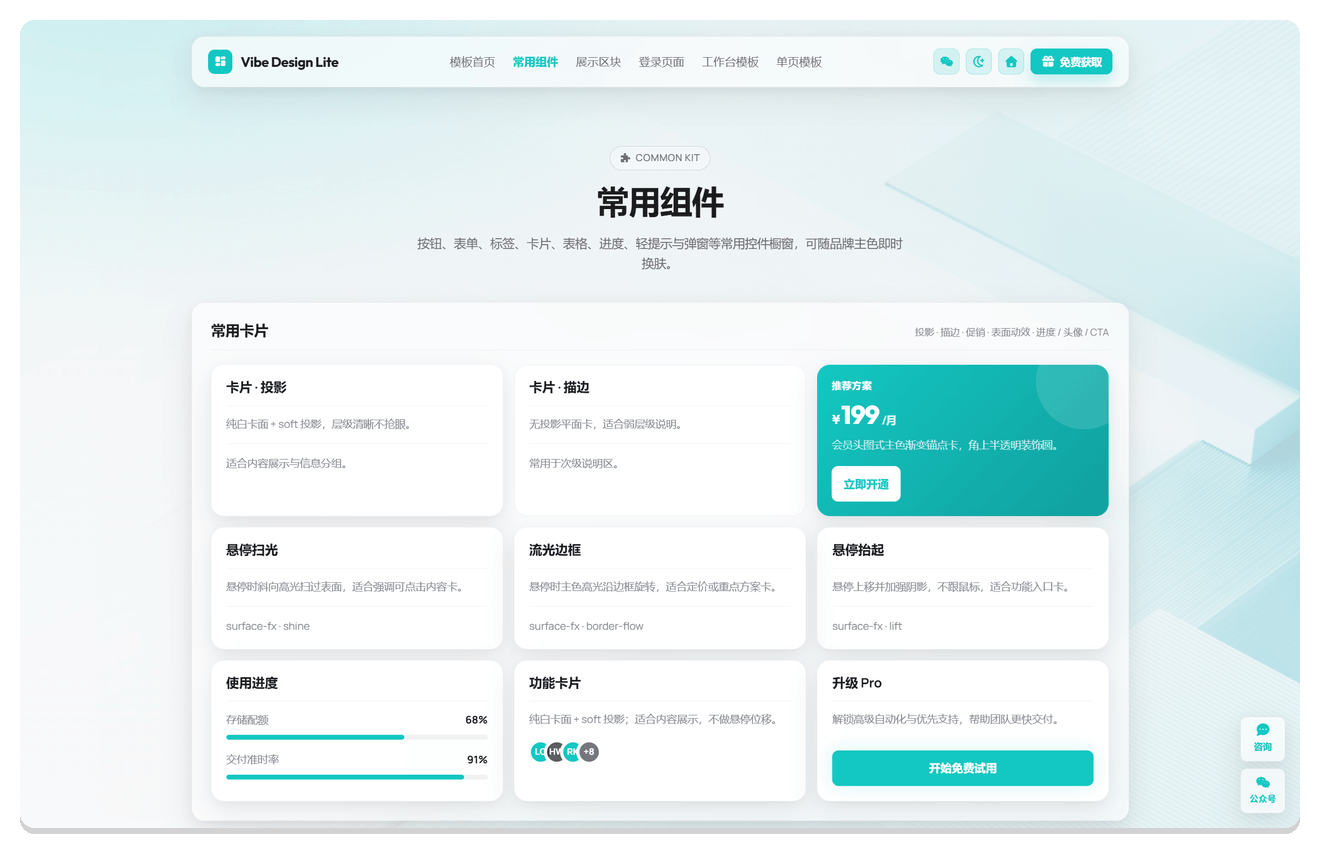
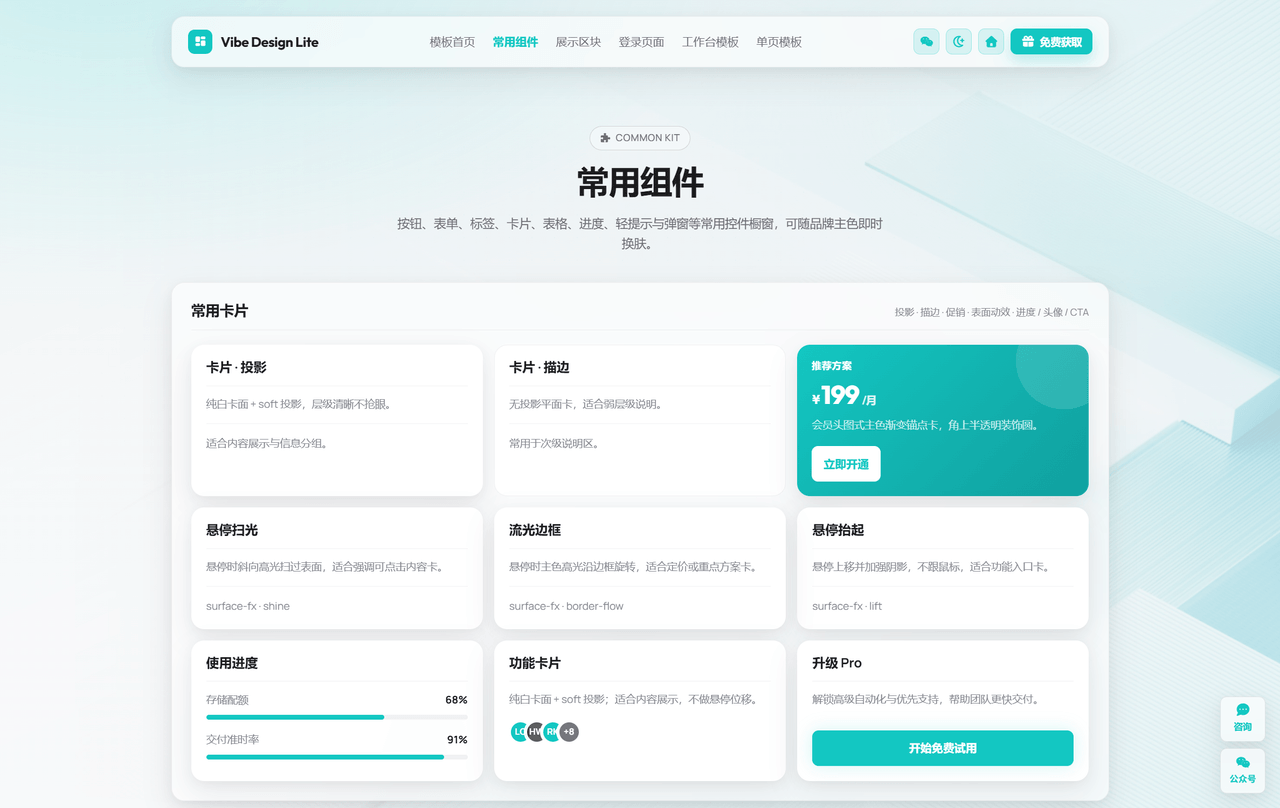
Revert README screenshots to plain assets; remove frame script

diff --git a/README.md b/README.md
@@ -21,8 +21,6 @@
 
 ## 预览截图
 
-> 圆角与阴影已烘焙进 PNG（GitHub README 会剥离 `<img>` 的 `style`）。换图后在本机运行：`python scripts/frame-screenshots.py`（请用未处理的原图，勿重复叠加）。
-
 **落地首页** · `index.html`
 
 <p align="center"><img src="./screenshot/vibe-design-lite-01.png" alt="落地首页" width="900" /></p>
